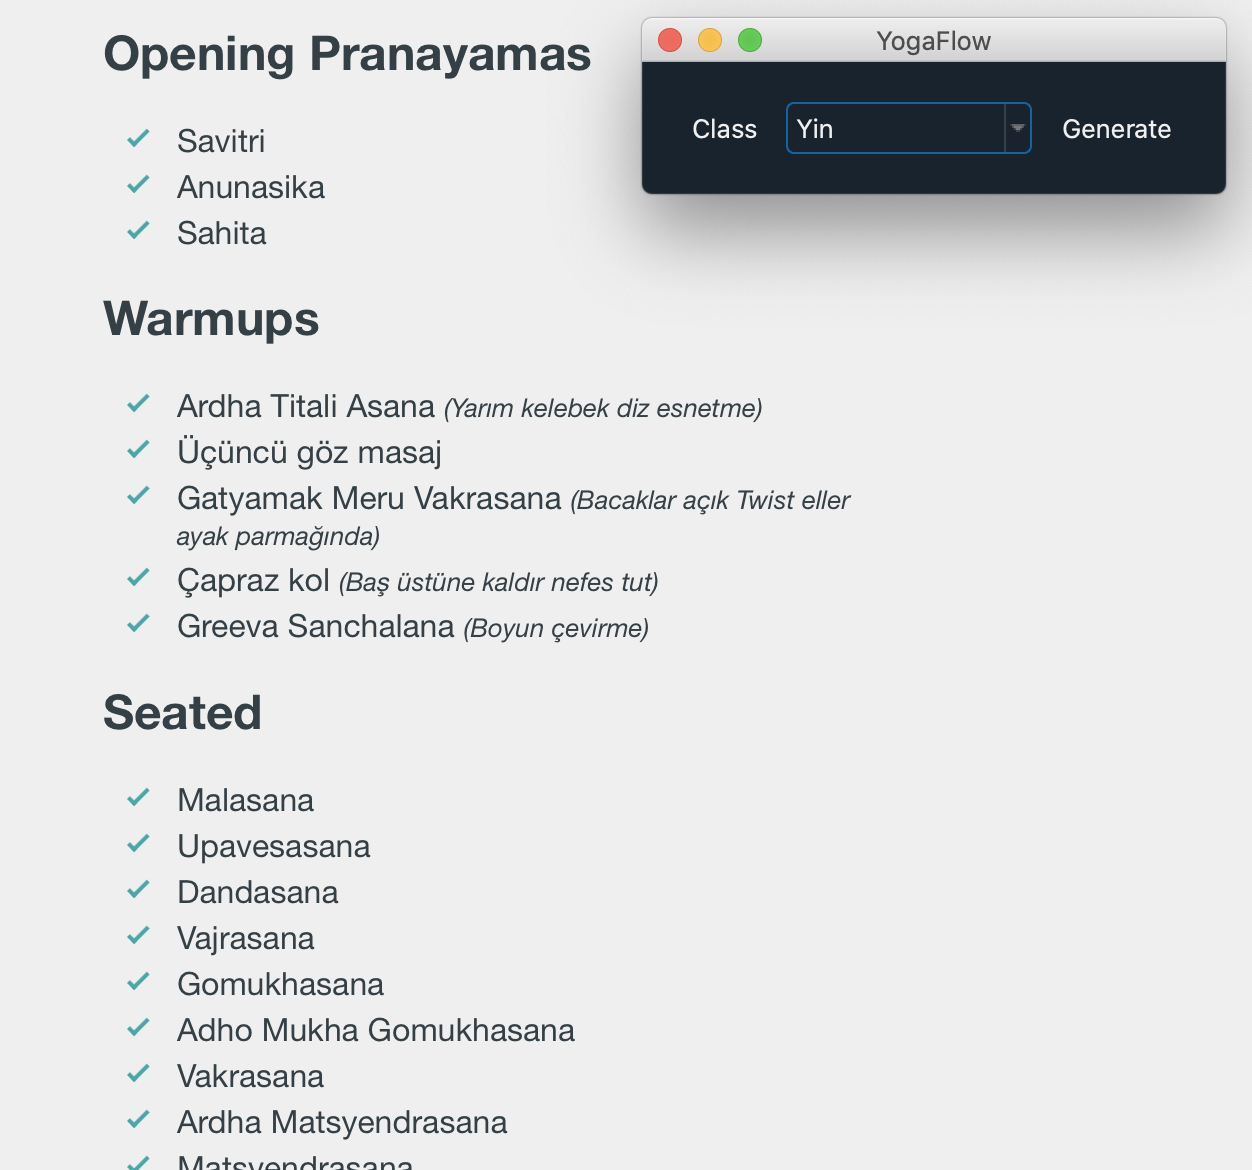
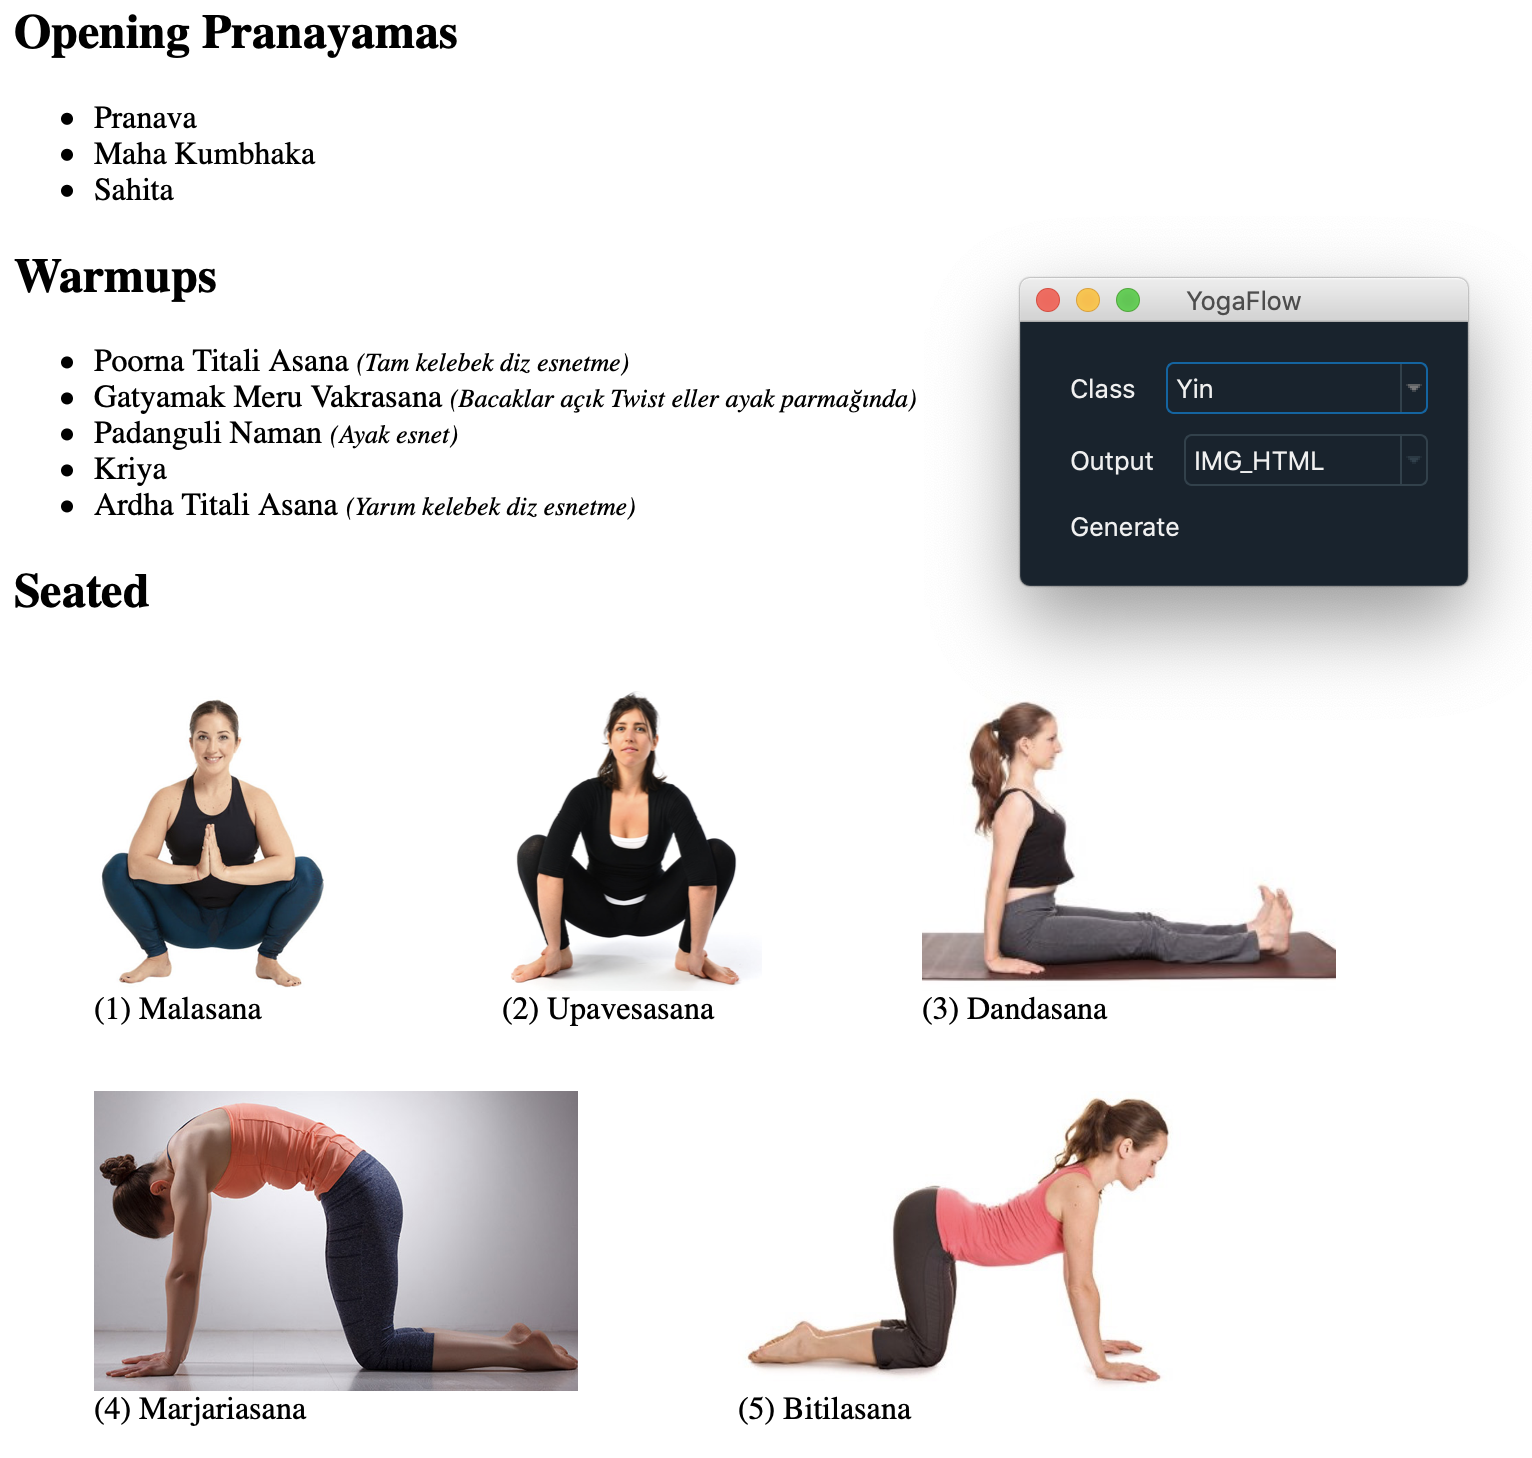
asana photos may be added Fixes #5

diff --git a/yogaflow/writer/img_html_writer.py b/yogaflow/writer/img_html_writer.py
@@ -1,0 +1,123 @@
+""" Image HTML output module """
+import os
+from typing import List
+from yogaflow import config
+from yogaflow.writer.abstract_writer import AbstractWriter
+from yogaflow.yoga.yoga_class import YogaClass
+from yogaflow.yoga.pranayama import Pranayama
+from yogaflow.yoga.asana import Asana
+
+
+class ImageFinder:
+    """ Finds images for asanas """
+    _EXTENSIONS = ["jpg", "png"]
+
+    def __init__(self):
+        self._img_root = os.path.join(os.getcwd(), "data", "img")
+
+    def get_image_code(self, asana: Asana, index: int) -> str:
+        """ Returns the HTML code for the asana image """
+        output = "<figure style='display:inline-block'>"
+        output += "<img src='"
+        output += self._get_image_path(asana)
+        output += "' style='height:150px;'>"
+        output += "<figcaption>(" + str(index) + ") " + asana.name + "</figcaption></figure>"
+        return output
+
+    def _get_image_path(self, asana: Asana) -> str:
+        for extension in ImageFinder._EXTENSIONS:
+            path_candidate = os.path.join(self._img_root, asana.name + "." + extension)
+            if os.path.isfile(path_candidate):
+                return path_candidate
+        return ""
+
+
+class ImgHtmlWriter(AbstractWriter): #pylint: disable=R0903
+    """ HTML output class
+    This is the default output generator. This class will save
+    the generated yoga class as an HTML file and open in the browser.
+    """
+
+    def __init__(self):
+        self._html = ""
+        self._html_file = ""
+        self._yoga_class = YogaClass()
+        self._config = config.get()
+        self._image_finder = ImageFinder()
+
+    def write(self, generated_class: YogaClass):
+        """ HTML generation entry point """
+        self._yoga_class = generated_class
+
+        self._html_file = os.path.join(
+            self._config["DOWNLOAD_DIR"],
+            self._yoga_class.name.replace(" ", "_") + ".html")
+
+        self._generate_html()
+        self._save_file()
+        self._display_file()
+
+    def _asanas(self):
+        for flow in self._yoga_class.asanas:
+            self._html += "<h2>" + str(flow.name).split(".")[1].capitalize() + "</h2>"
+            index = 0
+            for asa in flow.asanas:
+                index += 1
+                self._html += self._image_finder.get_image_code(asa, index)
+            self._close_section()
+
+    def _begin_html(self):
+        self._html = "<html><head>"
+        self._html += "</head><body>"
+
+    def _display_file(self):
+        os.system("open " + self._html_file)
+
+    def _end_html(self):
+        self._html += "</body></html>"
+
+    def _generate_html(self):
+        self._begin_html()
+
+        self._open_section("Opening Pranayamas")
+        self._pranayamas(self._yoga_class.opening_pranayamas)
+        self._close_section()
+
+        self._open_section("Warmups")
+        self._warmups()
+        self._close_section()
+
+        self._asanas()
+
+        self._open_section("Closure")
+        self._pranayamas(self._yoga_class.closing_pranayamas)
+        self._close_section()
+
+        self._open_section("Meditation")
+        self._html += "<li>" + self._yoga_class.meditation.name + "</li>"
+        self._close_section()
+        self._end_html()
+
+    def _pranayamas(self, p_pranayamas: List[Pranayama]):
+        for pranayama in p_pranayamas:
+            self._html += "<li>" + pranayama.name + "</li>"
+
+    def _save_file(self):
+        file2 = open(self._html_file, "w+")
+        file2.write(self._html)
+        file2.close()
+
+    def _warmups(self):
+        for warmup in self._yoga_class.warmups:
+            self._html += "<li>" + warmup.name
+            if warmup.description != "":
+                self._html += " <small><i>(" + warmup.description + ")</i></small>"
+            self._html += "</li>"
+
+    def _open_section(self, title: str):
+        self._html += "<h2>"
+        self._html += title
+        self._html += "</h2><ul class=\"check-list\">"
+
+    def _close_section(self):
+        self._html += "</ul>"

diff --git a/gui/prime.py b/gui/prime.py
@@ -1,47 +1,60 @@
 """Primary GUI module"""
+from enum import Enum
 from PyQt5.Qt import QHBoxLayout, QVBoxLayout, QWidget, QLabel, QComboBox # pylint: disable=E0611
 from yogaflow.reader.json_reader import JsonReader
+from yogaflow.reader.yoga_database import YogaDatabase
 from yogaflow.generator.primal_generator import PrimalGenerator
 from yogaflow.writer.html_writer import HtmlWriter
+from yogaflow.writer.img_html_writer import ImgHtmlWriter
+
+
+class Output(Enum):
+    """ Output (writer) enum """
+    HTML = 1
+    IMG_HTML = 2
+
 
 class Prime(QWidget):
     """ Main GUI window """
 
     def __init__(self, *args, **kwargs):
         super().__init__(*args, **kwargs)
-
-        reader = JsonReader()
-        self._classes = reader.get_yoga_classes()
-        self._pranayamas = reader.get_pranayamas()
-        self._warmups = reader.get_warmups()
-        self._asanas = reader.get_asanas()
-        self._flows = reader.get_flows(self._asanas)
-        self._meditations = reader.get_meditations()
+        self._outputs = [Output.IMG_HTML, Output.HTML]
+        self._yoga_db = YogaDatabase(JsonReader())
         self._selected_class_index = 0
+        self._selected_output_index = 0
 
         self._build_gui()
 
     def _build_gui(self):
         class_label = QLabel(self)
         class_label.setText("Class")
-
         class_combo = QComboBox(self)
         class_combo.currentIndexChanged.connect(self._class_selected)
-
-        for yoga_class in self._classes:
+        for yoga_class in self._yoga_db.classes:
             class_combo.addItem(yoga_class.name)
+        class_layout = QHBoxLayout()
+        class_layout.addWidget(class_label)
+        class_layout.addWidget(class_combo)
+
+        output_label = QLabel(self)
+        output_label.setText("Output")
+        output_combo = QComboBox(self)
+        output_combo.currentIndexChanged.connect(self._output_selected)
+        for output in self._outputs:
+            output_combo.addItem(output.name)
+        output_layout = QHBoxLayout()
+        output_layout.addWidget(output_label)
+        output_layout.addWidget(output_combo)
 
         gen_button = QLabel(self)
         gen_button.setText("Generate")
         gen_button.mousePressEvent = self._generate_clicked
 
-        class_layout = QHBoxLayout()
-        class_layout.addWidget(class_label)
-        class_layout.addWidget(class_combo)
-        class_layout.addWidget(gen_button)
-
         main_layout = QVBoxLayout()
         main_layout.addLayout(class_layout)
+        main_layout.addLayout(output_layout)
+        main_layout.addWidget(gen_button)
         self.setLayout(main_layout)
         self.setWindowTitle("YogaFlow")
         self.show()
@@ -49,16 +62,23 @@ class Prime(QWidget):
     def _class_selected(self, i):
         self._selected_class_index = i
 
+    def _output_selected(self, i):
+        self._selected_output_index = i
+
     def _generate_clicked(self, event): # pylint: disable=W0613
-        selected_class = self._classes[self._selected_class_index]
+        selected_class = self._yoga_db.classes[self._selected_class_index]
         generator = PrimalGenerator()
         generator.generate(
             p_yoga_class=selected_class,
-            p_pranayamas=self._pranayamas,
-            p_warmups=self._warmups,
-            p_asanas=self._asanas,
-            p_flows=self._flows,
-            p_meditations=self._meditations)
+            p_pranayamas=self._yoga_db.pranayamas,
+            p_warmups=self._yoga_db.warmups,
+            p_asanas=self._yoga_db.asanas,
+            p_flows=self._yoga_db.flows,
+            p_meditations=self._yoga_db.meditations)
 
-        writer = HtmlWriter()
+        selected_output = self._outputs[self._selected_output_index]
+        if selected_output == Output.HTML:
+            writer = HtmlWriter()
+        if selected_output == Output.IMG_HTML:
+            writer = ImgHtmlWriter()
         writer.write(generated_class=selected_class)

diff --git a/yogaflow/generator/primal_generator.py b/yogaflow/generator/primal_generator.py
@@ -50,6 +50,7 @@ class PrimalGenerator(AbstractGenerator): #pylint: disable=R0903
                              p_source: List[Pranayama],
                              p_target: List[Pranayama]):
 
+        p_target.clear()
         eligible_pranayama_candidates = []
 
         if p_location == PranayamaLocation.opener:
@@ -76,6 +77,7 @@ class PrimalGenerator(AbstractGenerator): #pylint: disable=R0903
             p_source.remove(random_pranayama)
 
     def _generate_asanas(self):
+        self._yoga_class.asanas.clear()
         PrimalAsanaGenerator().generate(self._yoga_class, self._asanas, self._flows)
 
     def _generate_closing_pranayamas(self):
@@ -100,6 +102,7 @@ class PrimalGenerator(AbstractGenerator): #pylint: disable=R0903
             p_target=self._yoga_class.opening_pranayamas)
 
     def _generate_warmups(self):
+        self._yoga_class.warmups.clear()
         for warmup_iteration in range(0, 5): #pylint: disable=W0612
             remaining_warmup_count = len(self._warmups)
             if remaining_warmup_count <= 0:

diff --git a/yogaflow/reader/yoga_database.py b/yogaflow/reader/yoga_database.py
@@ -1,0 +1,13 @@
+""" Yoga database module """
+from yogaflow.reader.abstract_reader import AbstractReader
+
+class YogaDatabase:
+    """ Yoga database class """
+    def __init__(self, reader: AbstractReader):
+        self._reader = reader
+        self.classes = reader.get_yoga_classes()
+        self.pranayamas = reader.get_pranayamas()
+        self.warmups = reader.get_warmups()
+        self.asanas = reader.get_asanas()
+        self.flows = reader.get_flows(self.asanas)
+        self.meditations = reader.get_meditations()

diff --git a/main.py b/main.py
@@ -4,6 +4,7 @@ from PyQt5.Qt import QApplication
 import qdarkstyle
 from gui.prime import Prime
 
+
 APP = QApplication([])
 APP.setStyleSheet(qdarkstyle.load_stylesheet_pyqt5())
 P = Prime()
